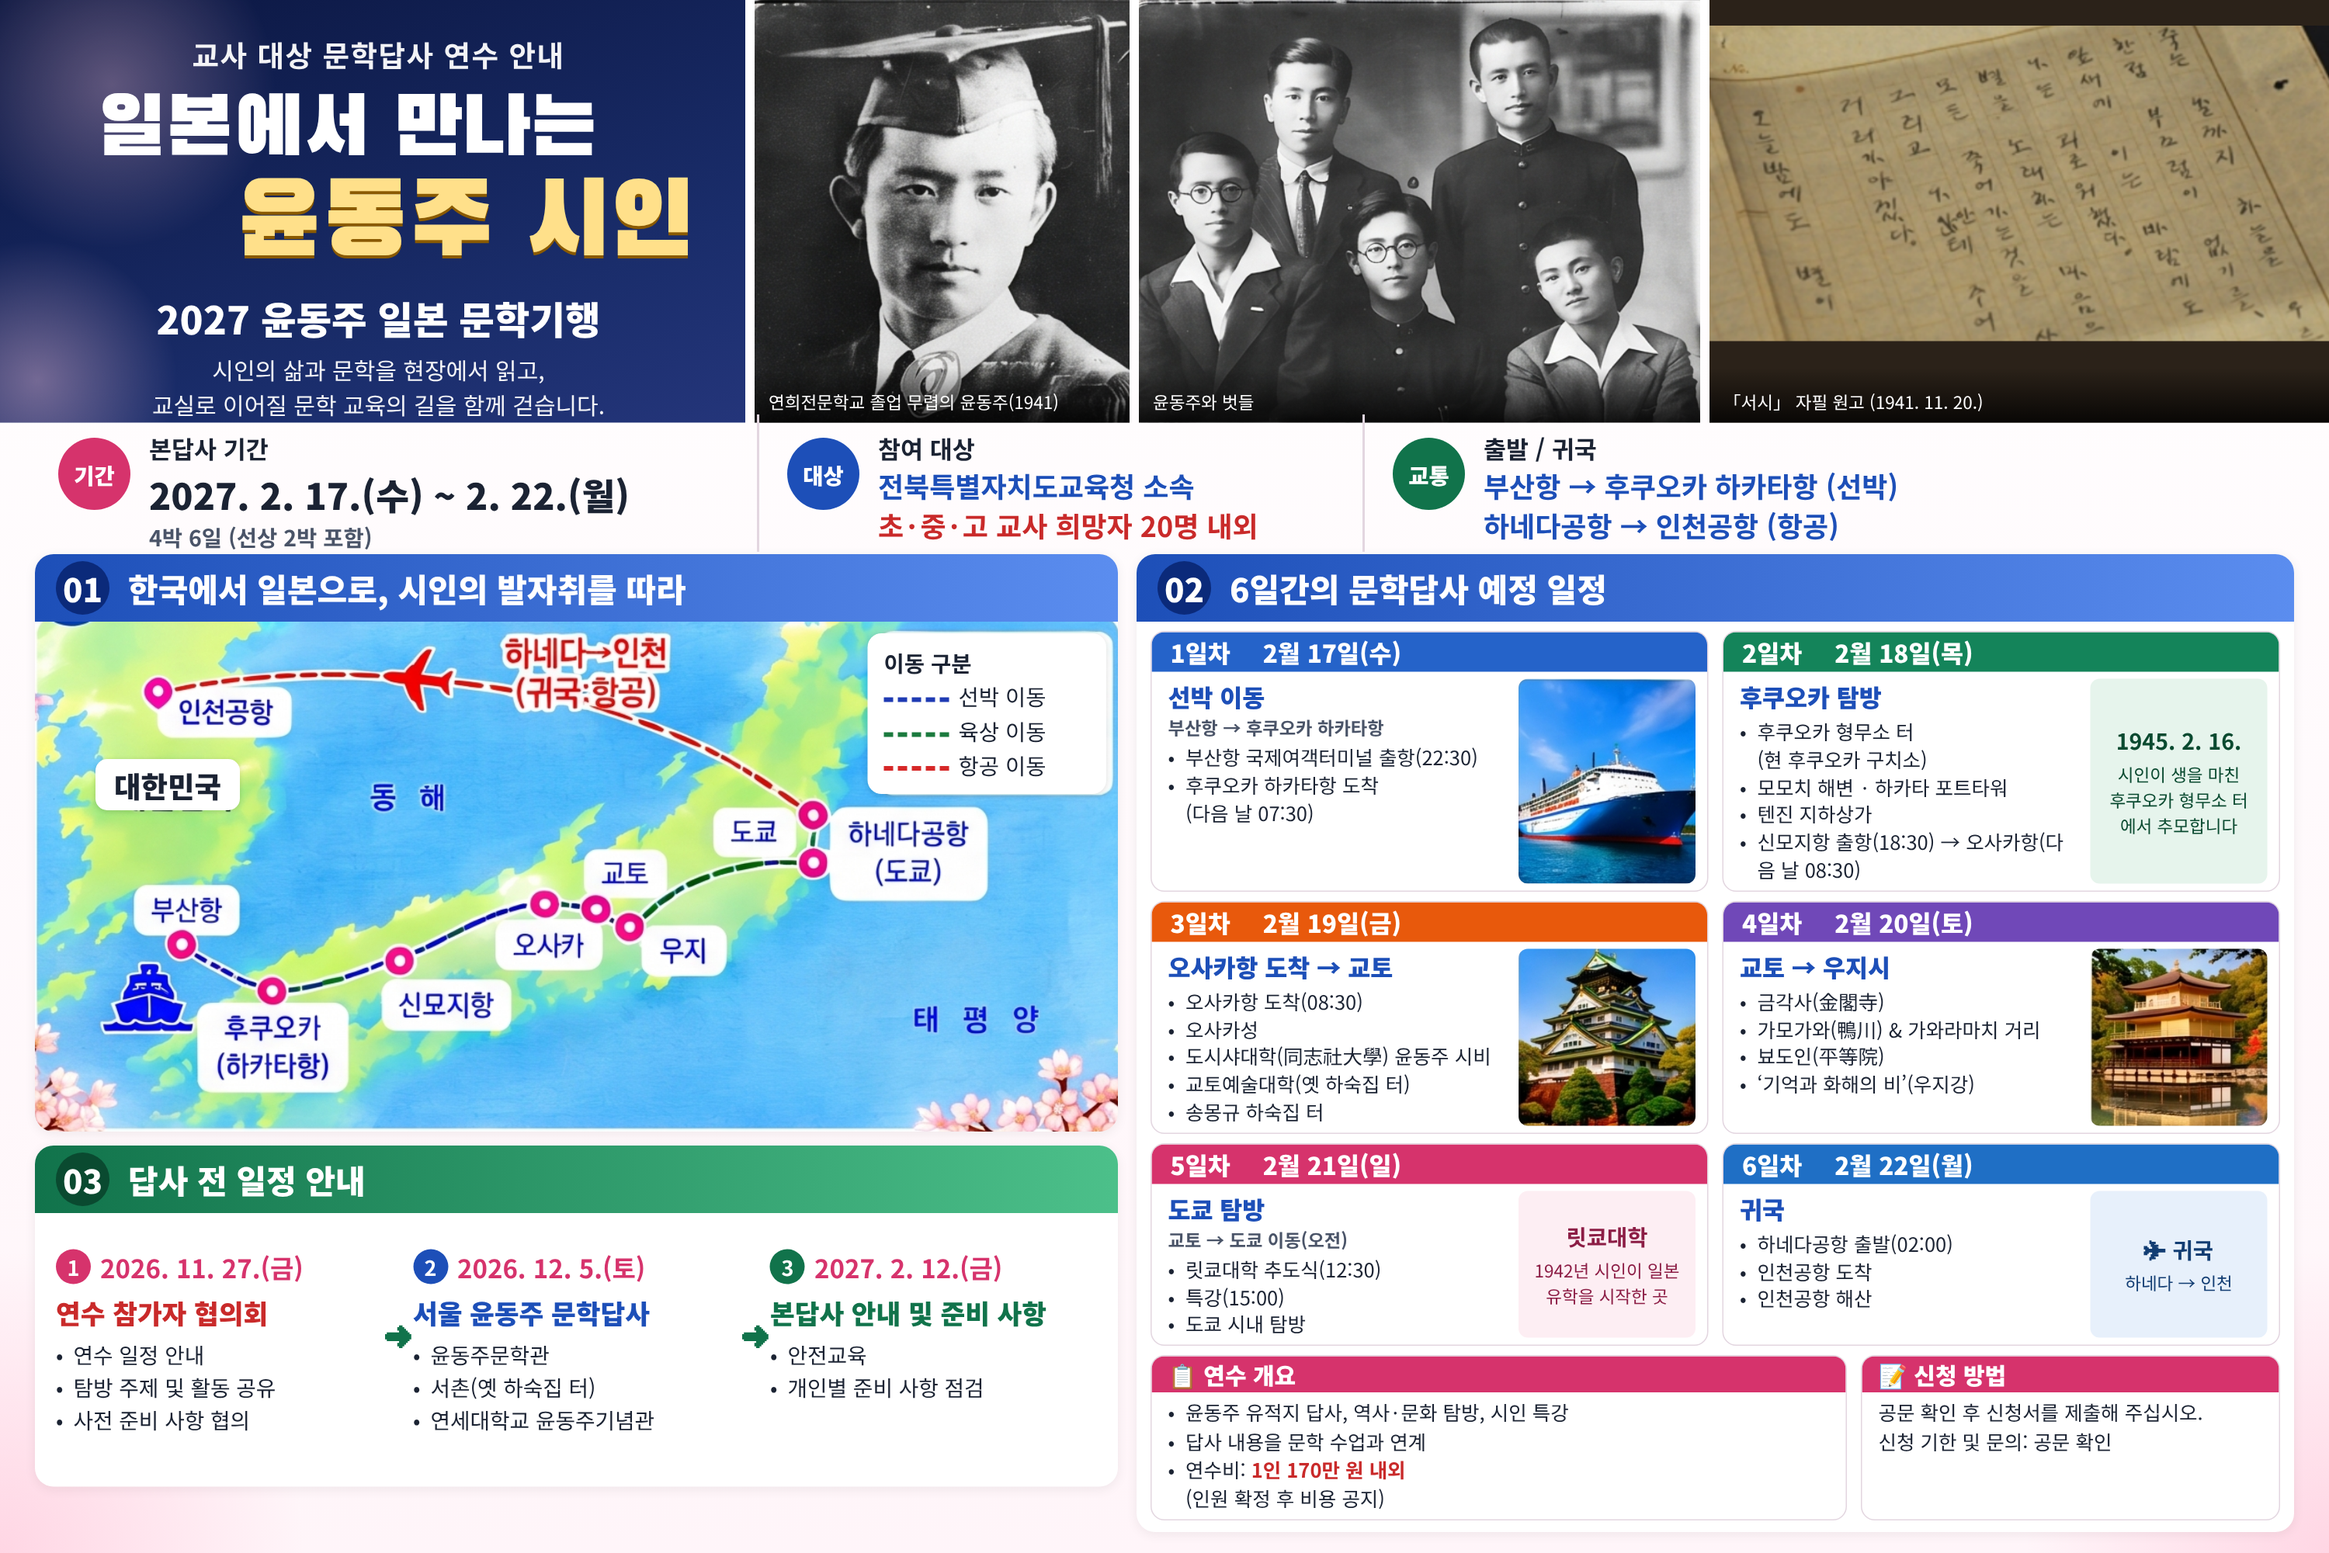
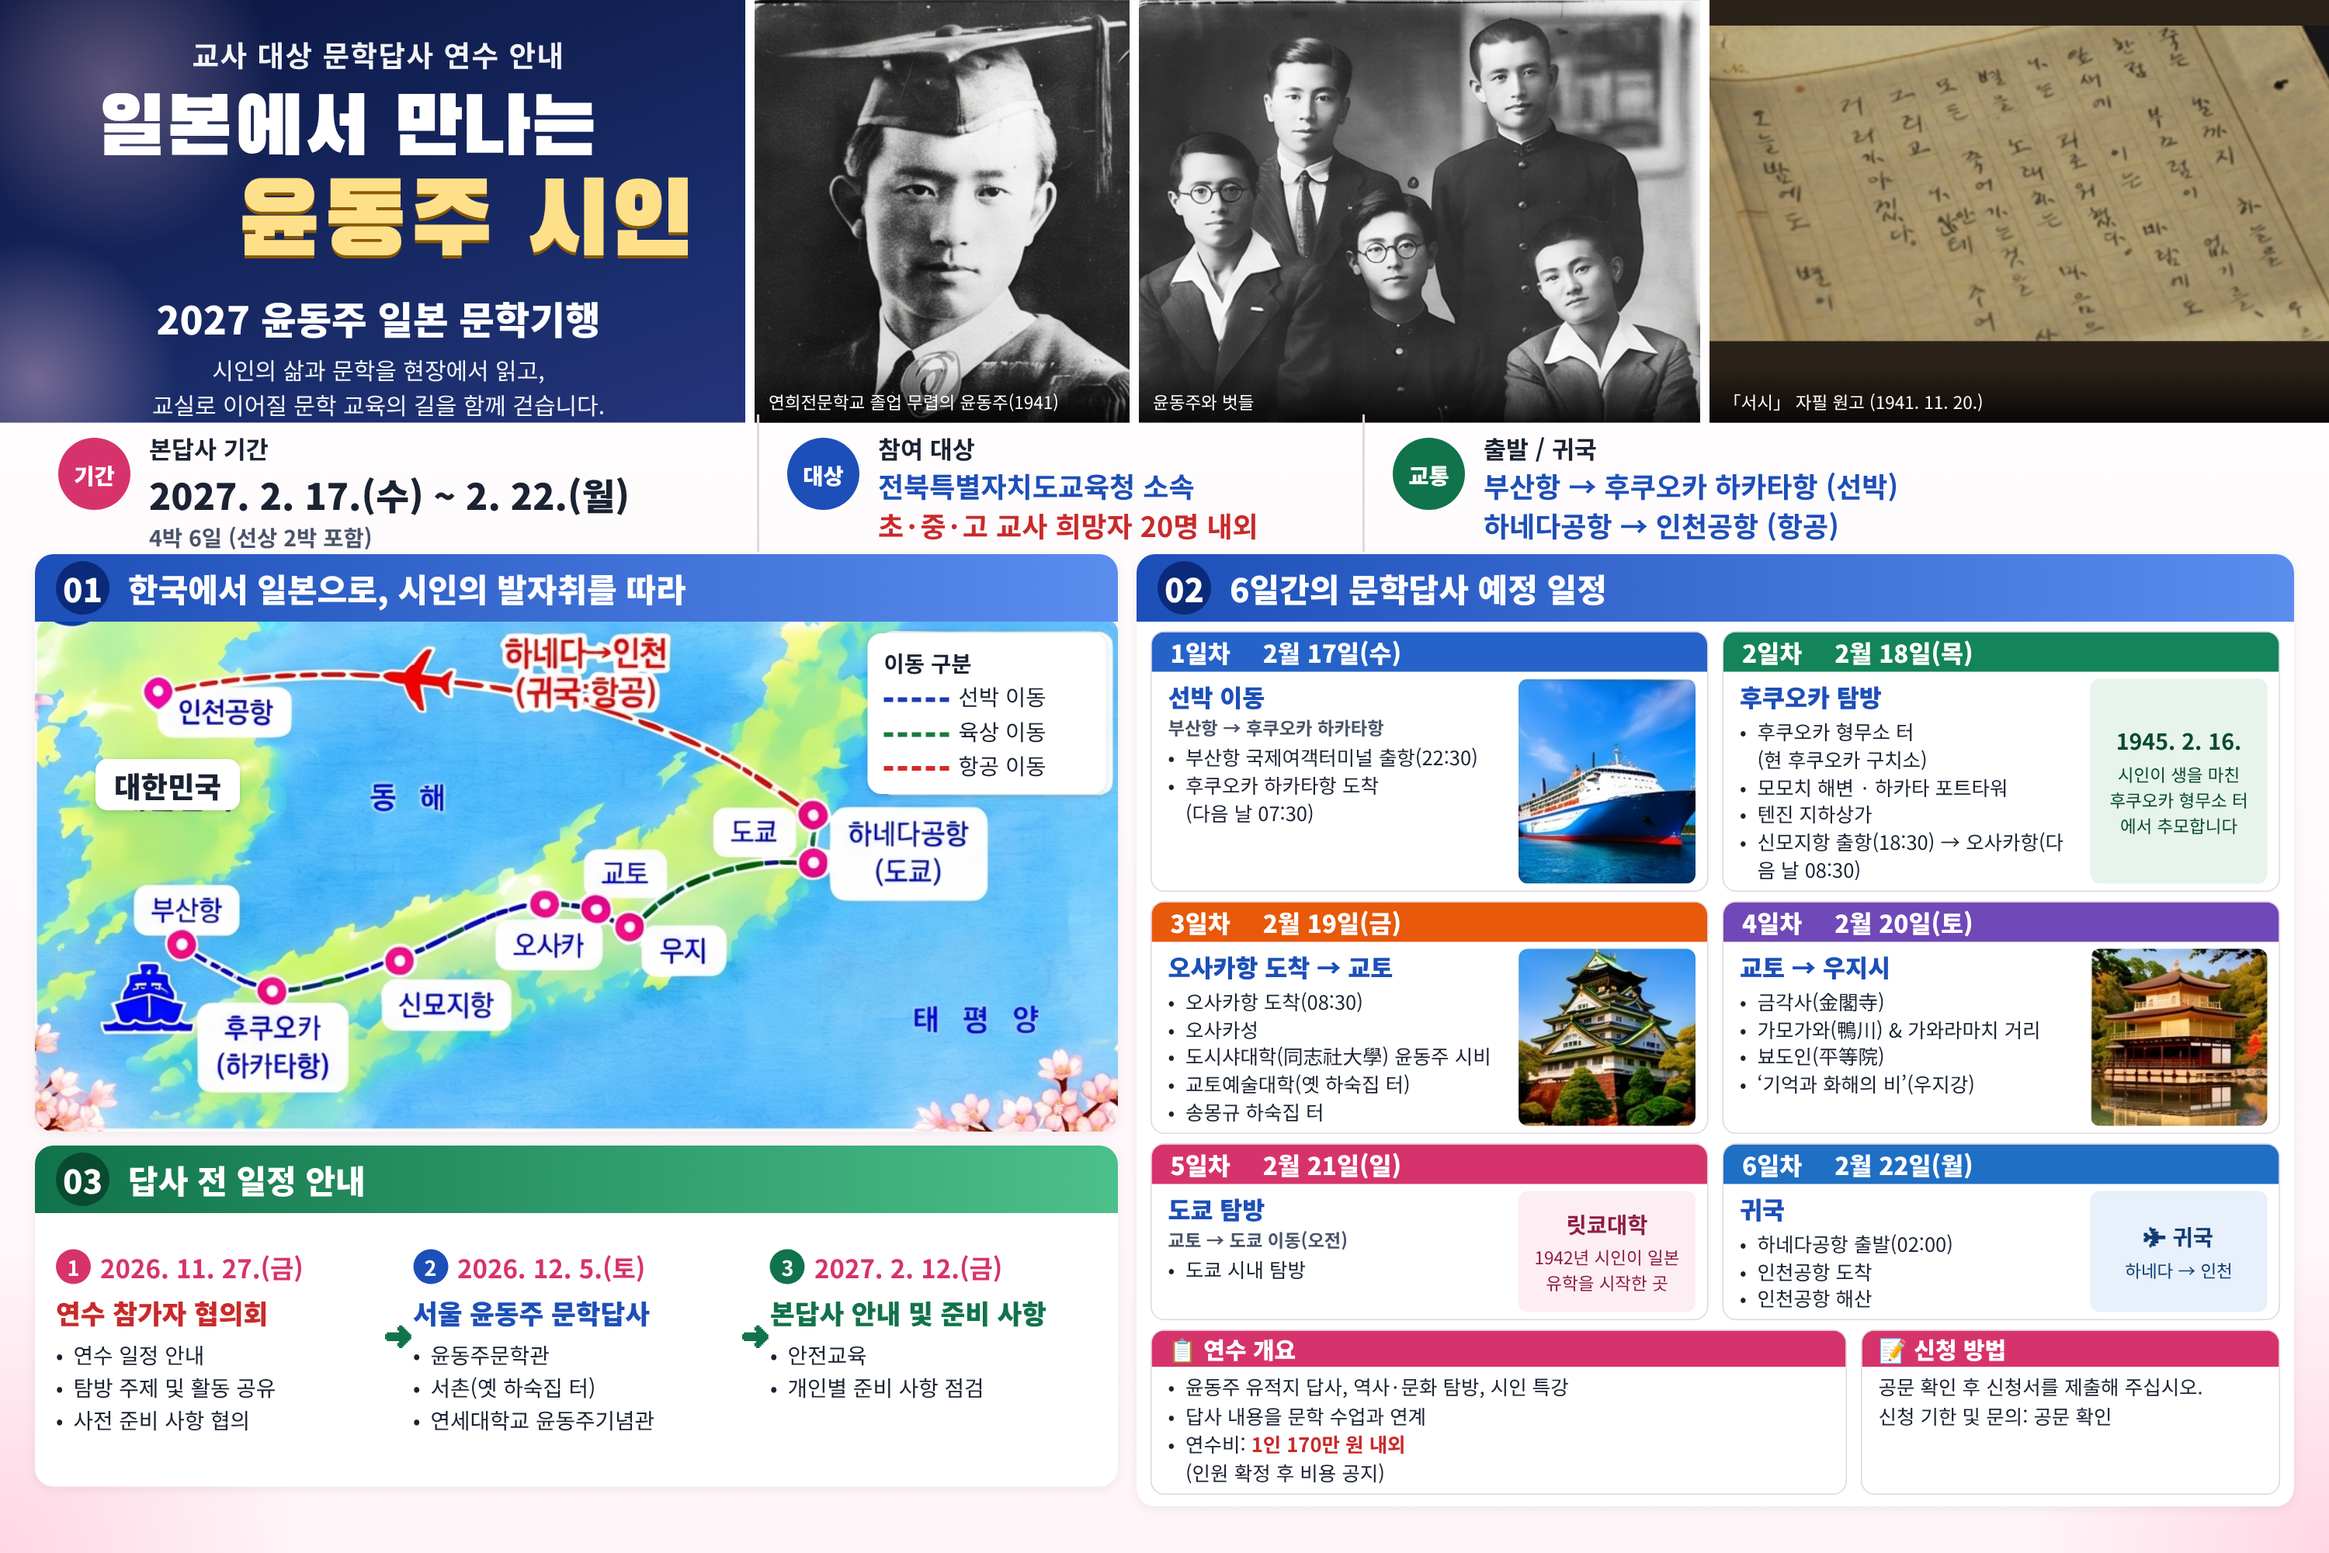
포스터 수정: 5일차 추도식·특강 세부 일정 삭제
Claude-Session: https://claude.ai/code/session_01LCh7YBkeFcKByNZN2XLh8F

Changed region(s): [[0.496, 0.7746, 0.992, 0.9915], [0.899, 0.9605, 0.992, 0.9915]]

diff --git a/poster_윤동주/poster.html b/poster_윤동주/poster.html
@@ -133,7 +133,7 @@ li:before{content:'•';position:absolute;left:0}
 
    <div class="day"><div class="dh c5"><span>5일차</span><span>2월 21일(일)</span></div><div class="db"><div class="txt">
     <h5>도쿄 탐방<small>교토 → 도쿄 이동(오전)</small></h5>
-    <ul><li>릿쿄대학 추도식(12:30)</li><li>특강(15:00)</li><li>도쿄 시내 탐방</li></ul></div>
+    <ul><li>도쿄 시내 탐방</li></ul></div>
     <div class="note" style="background:#fdeef3;color:#8c1d45"><b>릿쿄대학</b>1942년 시인이 일본 유학을 시작한 곳</div></div></div>
 
    <div class="day"><div class="dh c6"><span>6일차</span><span>2월 22일(월)</span></div><div class="db"><div class="txt">
